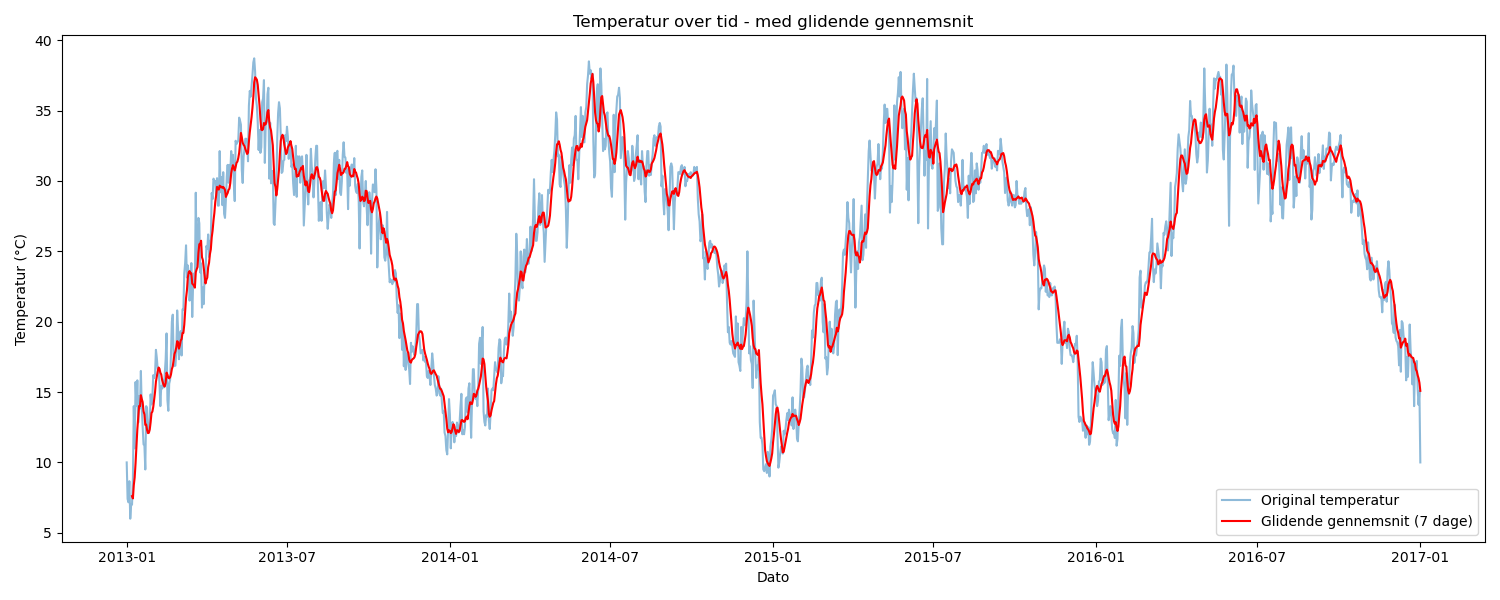
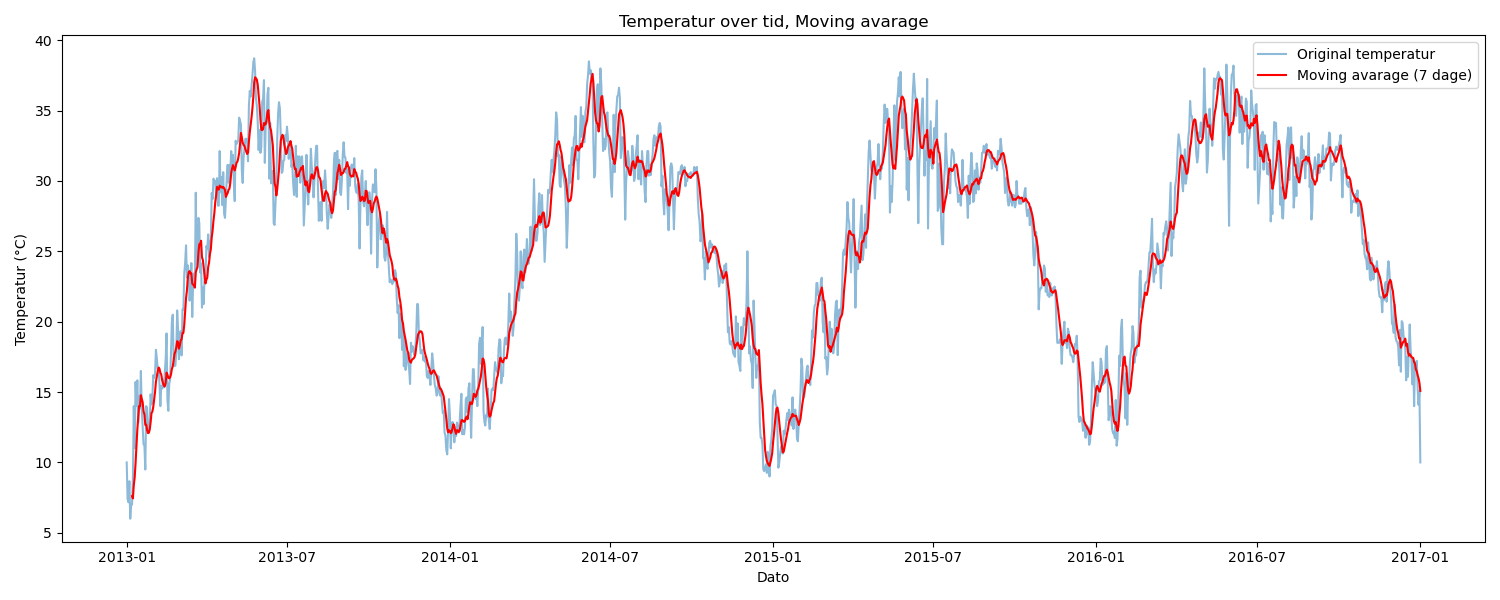
Sidste

Changed region(s): [[0.828, 0.81, 0.9813, 0.9], [0.828, 0.06, 0.9813, 0.15], [0.368, 0.03, 0.644, 0.06]]

diff --git a/Støjfuld data/fft_filter_temp.py b/Støjfuld data/fft_filter_temp.py
@@ -4,33 +4,37 @@ import matplotlib.pyplot as plt
 
 
 filnavn = r"Støjfuld data\DailyDelhiClimateTrain.csv"
-df = pd.read_csv(filnavn, parse_dates=['date'])
+df = pd.read_csv(filnavn)
 
 
-temperature = df['meantemp']
-
-#FFT
-fft_values = np.fft.fft(temperature)
-frequencies = np.fft.fftfreq(len(temperature))
-
-fft_filtered = fft_values.copy()
-threshold = 0.005  #Lavere threshold 
-fft_filtered[np.abs(frequencies) > threshold] = 0
-
-filtered_temp_fft = np.fft.ifft(fft_filtered).real
+df["date"] = pd.to_datetime(df["date"]) 
+df.set_index("date", inplace=True)
 
 
-window_size = 30  
-moving_avg = temperature.rolling(window=window_size, center=True).mean()
+temp = df["meantemp"].values
+n = len(temp)
 
-#Plot FFT vs Moving Average
-plt.figure(figsize=(18, 7))
-plt.plot(df['date'], filtered_temp_fft, label=f'Filteret temperatur (FFT, threshold={threshold})', color='green')
-plt.plot(df['date'], moving_avg, label=f'Moving average (vindue={window_size})', color='orange')
-plt.xlabel('Dato')
-plt.ylabel('Temperatur (°C)')
-plt.title('Sammenligning: FFT vs. Moving Average')
+#FFT :)
+fft_temp = np.fft.fft(temp)
+frequencies = np.fft.fftfreq(n)
+
+#Filtering
+filtered_fft = fft_temp.copy()
+cutoff = int(n * 0.05)  
+filtered_fft[cutoff:-cutoff] = 0
+
+
+filtered_temp = np.fft.ifft(filtered_fft).real
+
+#Plotteet
+plt.figure(figsize=(14, 6))
+plt.plot(df.index, temp, label="Original temperatur", color="tab:blue", alpha=0.5)
+plt.plot(df.index, filtered_temp, label="Filtreret temperatur (FFT)", color="green")
+plt.xlabel("Dato")
+plt.ylabel("Temperatur (°C)")
+plt.title("Temperatur over tid, med frekvensbaseret filtrering :)")
 plt.legend()
 plt.grid(True)
 plt.tight_layout()
+plt.savefig("fft_filter_resultat.png")
 plt.show()

diff --git a/Støjfuld data/preprocessing_temp.py b/Støjfuld data/preprocessing_temp.py
@@ -5,14 +5,14 @@ import matplotlib.pyplot as plt
 filnavn = r"Støjfuld data\DailyDelhiClimateTrain.csv"
 df = pd.read_csv(filnavn, parse_dates=["date"])
 
-#7 dages vindue
+
 df["glidende_gns"] = df["meantemp"].rolling(window=7).mean()
 
 #Plot :)
 plt.figure(figsize=(15, 6))
 plt.plot(df["date"], df["meantemp"], label="Original temperatur", alpha=0.5)
-plt.plot(df["date"], df["glidende_gns"], label="Glidende gennemsnit (7 dage)", color="red")
-plt.title("Temperatur over tid - med glidende gennemsnit")
+plt.plot(df["date"], df["glidende_gns"], label="Moving avarage (7 dage)", color="red")
+plt.title("Temperatur over tid, Moving avarage")
 plt.xlabel("Dato")
 plt.ylabel("Temperatur (°C)")
 plt.legend()

diff --git a/Støjfuld data/støj_analyse_hisogram.py b/Støjfuld data/støj_analyse_hisogram.py
@@ -13,11 +13,11 @@ print("Kolonner i datasættet:", df.columns)
 if "meantemp" in df.columns:
     df = df.rename(columns={"meantemp": "temperature"})
 
-#standardafvigelsen
+#standardafvigelseen 
 std_dev = df["temperature"].std()
 print(f"Standardafvigelse: {std_dev:.2f}")
 
-#Plot histogram 
+#Plottet til histogrammet
 plt.figure(figsize=(8, 5))
 df["temperature"].hist(bins=50, color="blue", alpha=0.7)
 plt.title("Histogram over temperaturer")
